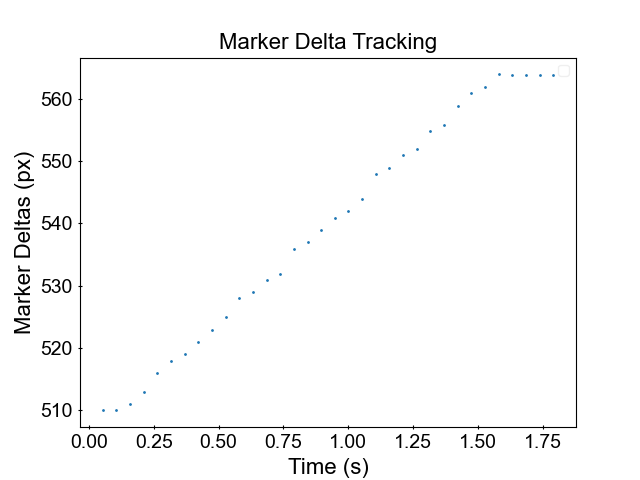
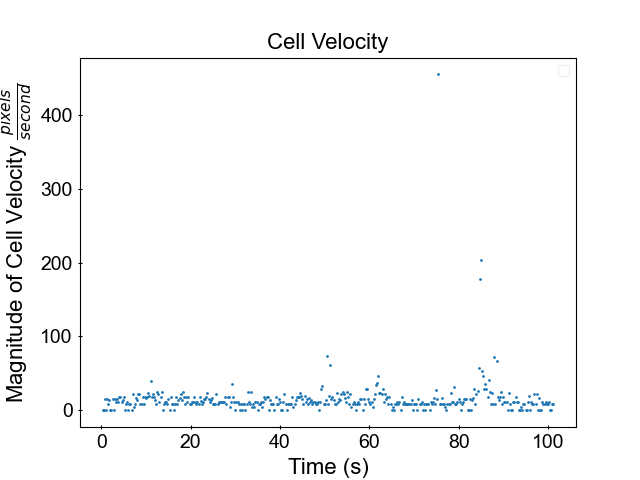
cell velocity visualizations

diff --git a/main.py b/main.py
@@ -121,12 +121,21 @@ class TrackingUI:
         track_btn.grid(row=0, column=0, columnspan=2, padx=32, pady=(24,4))
         remove_outliers_button = ttk.Button(submit_frame, text="Remove outliers", command=self.remove_outliers, style='Regular.TButton')
         remove_outliers_button.grid(row=1, column=0, columnspan=2, padx=32, pady=(4,24))
+        
         marker_deltas_btn = ttk.Button(submit_frame, text="Marker deltas analysis", command=analysis.analyze_marker_deltas, style='Regular.TButton')
         marker_deltas_btn.grid(row=2, column=0, padx=4, pady=4)
         necking_pt_btn = ttk.Button(submit_frame, text="Necking point analysis", command=analysis.analyze_necking_point, style='Regular.TButton')
-        necking_pt_btn.grid(row=2, column=1, padx=4, pady=4)
+        necking_pt_btn.grid(row=3, column=0, padx=4, pady=4)
         poissons_ratio_btn = ttk.Button(submit_frame, text="Poisson's ratio", command=analysis.poissons_ratio, style='Regular.TButton')
-        poissons_ratio_btn.grid(row=3, column=0, columnspan=2, padx=4, pady=4)
+        poissons_ratio_btn.grid(row=4, column=0, padx=4, pady=4)
+
+        cell_velocity_btn = ttk.Button(submit_frame, text="Marker velocity", command=analysis.single_marker_velocity, style='Regular.TButton')
+        cell_velocity_btn.grid(row=2, column=1, padx=4, pady=4)
+        cell_distance_btn = ttk.Button(submit_frame, text="Marker distance", command=analysis.single_marker_distance, style='Regular.TButton')
+        cell_distance_btn.grid(row=3, column=1, padx=4, pady=4)
+        cell_spread_btn = ttk.Button(submit_frame, text="Marker spread", command=analysis.single_marker_velocity, style='Regular.TButton')
+        cell_spread_btn.grid(row=4, column=1, padx=4, pady=4)
+
         exit_btn = ttk.Button(submit_frame, text='Exit', command=sys.exit, style='Regular.TButton')
         exit_btn.grid(row=10, column=0, columnspan=2, padx=32, pady=(24,12))
         submit_frame.grid(row=20, column=0)
@@ -331,7 +340,8 @@ class OutlierRemoval:
         # file options
         self.output_files = {
             'marker_tracking': 'output/Tracking_Output.csv',
-            'necking_point': 'output/Necking_Point_Output.csv'
+            'necking_point': 'output/Necking_Point_Output.csv',
+            'single_marker': 'output/Tracking_Output.csv'
         }
 
         self.selected_file = tk.StringVar()
@@ -340,6 +350,8 @@ class OutlierRemoval:
         self.marker_radio.pack()
         self.necking_radio = ttk.Radiobutton(self.window, text="Necking point output", variable=self.selected_file, value=self.output_files['necking_point'], command=self.load_plot)
         self.necking_radio.pack()
+        self.marker_vel_radio = ttk.Radiobutton(self.window, text="Single Marker output", variable=self.selected_file, value=self.output_files['single_marker'], command=self.load_plot)
+        self.marker_vel_radio.pack()
 
         self.undo_removals_button = ttk.Button(self.window, text="Undo Selections", command=self.undo_selections)
         self.undo_removals_button.pack(pady=12)
@@ -356,7 +368,11 @@ class OutlierRemoval:
         self.x = list(self.df[self.x_col].unique())
         self.y = None
         if self.selected_file.get().__contains__('Tracking'):
-            _, self.y = analysis.analyze_marker_deltas(self.df, False)
+            if self.df['Tracker'].unique().shape[0] > 1:
+                _, self.y = analysis.analyze_marker_deltas(self.df, False)
+            else:
+                self.x, self.y = analysis.single_marker_velocity(self.df, False)
+            
         if self.selected_file.get().__contains__('Necking'):
             _, self.y = analysis.analyze_necking_point(self.df, False)
 

diff --git a/analysis.py b/analysis.py
@@ -209,5 +209,52 @@ def poissons_ratio():
 
     print("Done")
 
+def single_marker_velocity(df=None, will_save_figures=True):
+    print("Finding Marker Velocity...")
+    if not isinstance(df, pd.DataFrame):
+        df = pd.read_csv("output/Tracking_Output.csv") # open csv created/modified from marker tracking process
+    print(df.head())
+
+    # grab relevant values from df
+    time = df['Time(s)'].values
+    x = df['x (px)'].values
+    y = df['y (px)'].values
+
+    # get differences
+    dx = np.diff(x)
+    dy = np.diff(y)
+    dt = np.diff(time)
+
+    # get velocities
+    vel_x = dx / dt
+    vel_y = dy / dt
+    vel_mag = np.sqrt(vel_x**2 + vel_y**2) # magnitude of velocities
+
+    # plot
+    plot_args = {
+        'title': r'Cell Velocity',
+        'x_label': 'Time (s)',
+        'y_label': r'Magnitude of Cell Velocity $\mathit{\frac{pixels}{second}}$',
+        'data_label': '',
+        'has_legend': False
+    }
+
+    if will_save_figures:
+        # plot marker distances
+        fig, ax = plot_data(time[:-1], vel_mag, plot_args)
+        fig.savefig("figures/marker_velocity.png")
+
+    print("Done")
+    return list(time[:-1]), list(vel_mag)
+
+
+def single_marker_distance():
+    print("Finding Marker Distance...")
+
+
+def single_marker_spread():
+    print("Finding Marker Spread...")
+
+
 if __name__=='__main__':
     analyze_marker_deltas()

diff --git a/README.md b/README.md
@@ -68,7 +68,7 @@
 - selections can be saved or undone via buttons at the top, as nothing is saved until the 'Confirm Removal' button is clicked
 
 ### Data Visualization
-- Currently 3 analysis buttons are available
+- Currently 4 analysis buttons are available for tracking visualizations (2 other buttons placed but functionality not implemented yet)
 - Necking point:
     - 'necking_point_location' plots as a control the horizontal marker location of the necking point (minimum diameter)
     - 'diameter_at_necking_point' plots the length of the vertical red marker from the tracking operation
@@ -76,6 +76,12 @@
 - Marker deltas:
     - 'marker_deltas' plots the distance that 2 tracked markers are moving away from eachother
     - 'longitudinal_strain' plots the longitudinal strain ((L-L0) / L0) where L is the distance between the markers at time t and L0 is the initial distance between the markers
+- Marker velocity
+    - 'marker_velocity' plots the magnitude of the differences of x and y locations over time
+- Marker disance
+    - IN PROGRESS
+- Marker spread
+    - IN PROGRESS
 
 
 ### Plot Customizations

diff --git a/CHANGELOG.md b/CHANGELOG.md
@@ -8,18 +8,18 @@
 
 ## TODO
 Housekeeping
-- separate main into main (ui stuff), and tracking.py
+- 
 
 Hydrogel
+- 
 
 Multi purpose
-- add arrow keys to frame selector for moving
+- differentiate between cell tracking and marker tracking
+- put confirmation labels on outlier removal too when changes save or undone
 
 Cell Mechanics
 - cell spread area over time
-- for cell tracking:
-   - total travel distance (RMS displacement)
-   - velocity (pixels per frame)
+- total travel distance (RMS displacement)
 
 
 # Changelog
@@ -29,6 +29,9 @@ Cell Mechanics
 - separated main ui code and all tracking routines to different files
 - added ability to scroll through frames with an arrow key (shift arrow for skipping 10 frames) in frame selector
 - added label to indicate this
+- added buttons and structure for 3 cell mechanics visualizations
+- implemented cell velocity visualizations
+- added single marker tracking as an option for outlier removal
 
 2/18
 - added tiff to available files for reading
